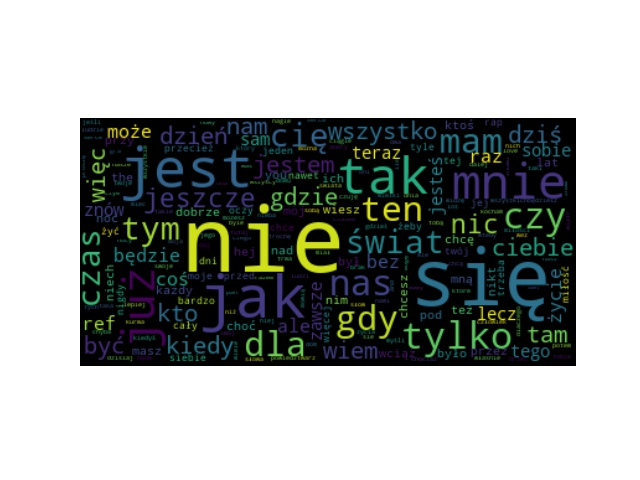
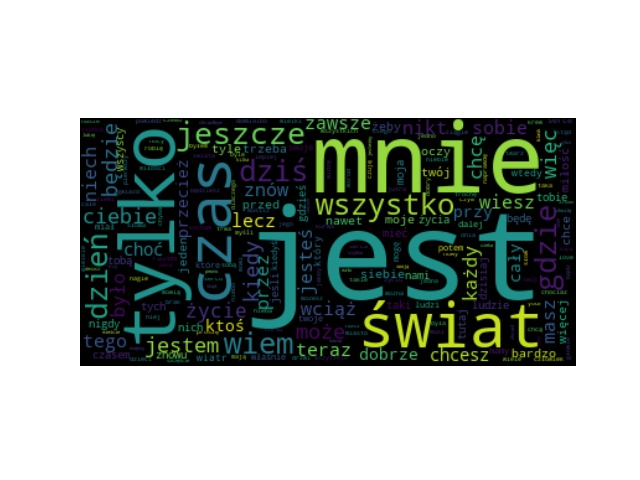
dodana chmura >4

Changed region(s): [[0.125, 0.25, 0.9062, 0.75]]

diff --git a/chmurkowanko2.py b/chmurkowanko2.py
@@ -37,3 +37,20 @@ def chmury_4_all(sciezka):
 				print( "o", end = '' )
 			except:
 				print( "N", end = '' )
+	return
+
+
+def chmuruj_slownik_ponad_4(wejscie_slownik=przetwarzanko.wczytywanko("Dane.txt"), sciezka='chmura.jpg'):
+
+	slownik_do_chmury = {}
+
+	for i in wejscie_slownik.keys():
+		if len(str(i)) > 3:
+			slownik_do_chmury[ str(i) ] = float( wejscie_slownik[i] )
+
+	wordcloud = WordCloud().generate_from_frequencies(slownik_do_chmury)
+
+	plt.imshow(wordcloud, interpolation="bilinear")
+	plt.axis("off")
+	plt.savefig(sciezka)
+	return

diff --git a/Adam_main.py b/Adam_main.py
@@ -30,4 +30,4 @@ def chmury_dla_wszystkich_nie_rob_plox():
     chmurkowanko2.chmury_4_all("Dane")
     return
 
-chmurkowanko2.chmuruj_slownik()
+chmurkowanko2.chmuruj_slownik_ponad_4()

diff --git a/przetwarzanko.py b/przetwarzanko.py
@@ -112,3 +112,4 @@ def skomplikowalnosc(slownik_tekst):
 	rozne = len( slownik_tekst.keys() )
 	ilosc = sum( slownik_tekst.values() )
 	return (rozne/ilosc)
+
